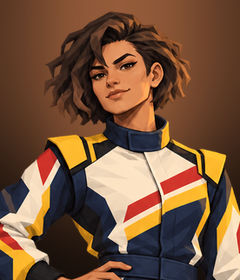
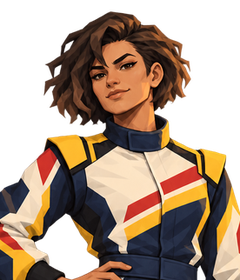
Segundo piloto: retratos sem fundo e o corpo inteiro na escolha
Pedido do usuário: os pilotos sem background e o asset melhor aproveitado.
Retratos regenerados sem fundo. Aba Equipe: busto recortado justo na
silhueta do corpo, traço em selo e a frase. Escolha: um candidato por vez
de corpo inteiro sob um foco de luz com sombra no chão, setas da garagem
para passar (com entrada deslizando), nome, traço, frase e Contratar; o
atual aparece como NA EQUIPE.

Claude-Session: https://claude.ai/code/session_015iFm7CUzfCZGHyWM9yY8m7

diff --git a/tools/preparar_piloto.py b/tools/preparar_piloto.py
@@ -2,8 +2,8 @@
 """Prepara a arte de um piloto a partir do PNG RGBA de corpo inteiro entregue,
 no padrão dos rivais (arte/pilotos/):
   corpo/<id>.webp   corpo inteiro 600 × 900 (2:3), escala uniforme, fundo transparente
-  <id>.png          retrato 240 × 280: cabeça e ombros recortados do corpo, sobre o
-                    fundo em degradê quente dos outros retratos
+  <id>.png          retrato 240 × 280: cabeça e ombros recortados do corpo, fundo
+                    transparente (a tela põe o piloto sobre o que estiver atrás)
 Escala sempre uniforme: o corpo de outra proporção é escalado pela altura e
 recortado dos lados; o retrato é um recorte do corpo, nunca esticado.
 
@@ -13,7 +13,7 @@ Requer Pillow.
 import pathlib
 import sys
 
-from PIL import Image, ImageDraw, ImageFilter
+from PIL import Image
 
 RAIZ = pathlib.Path(__file__).resolve().parent.parent
 SAIDA = RAIZ / "arte/pilotos"
@@ -21,9 +21,6 @@ CORPO = (600, 900)
 RETRATO = (240, 280)
 ALFA_ZERO = 16  # abaixo disso a franja some
 ALFA_CHEIO = 245  # acima disso o pixel é opaco
-# Degradê dos retratos (amostrado dos rivais): luz quente no alto, cantos escuros.
-LUZ = (150, 92, 58)
-SOMBRA = (20, 13, 9)
 
 
 def limpar(im: Image.Image) -> Image.Image:
@@ -50,16 +47,6 @@ def corpo(im: Image.Image) -> Image.Image:
     return quadro
 
 
-def fundo() -> Image.Image:
-    f = Image.new("RGB", RETRATO, SOMBRA)
-    luz = Image.new("L", RETRATO, 0)
-    d = ImageDraw.Draw(luz)
-    w, h = RETRATO
-    d.ellipse((w * 0.05, -h * 0.35, w * 0.95, h * 0.75), fill=255)
-    luz = luz.filter(ImageFilter.GaussianBlur(w * 0.18))
-    return Image.composite(Image.new("RGB", RETRATO, LUZ), f, luz)
-
-
 def retrato(c: Image.Image) -> Image.Image:
     """Cabeça e ombros: do topo da figura, largura de 46% do corpo, 240:280."""
     caixa = c.getchannel("A").getbbox()
@@ -71,10 +58,7 @@ def retrato(c: Image.Image) -> Image.Image:
     xs = [x for x in range(c.width) if linha.getpixel((x, 0)) > 128]
     cx = (min(xs) + max(xs)) // 2 if xs else c.width // 2
     x0 = min(max(cx - largura // 2, 0), c.width - largura)
-    rosto = c.crop((x0, topo, x0 + largura, topo + altura)).resize(RETRATO, Image.LANCZOS)
-    r = fundo().convert("RGBA")
-    r.alpha_composite(rosto)
-    return r.convert("RGB")
+    return c.crop((x0, topo, x0 + largura, topo + altura)).resize(RETRATO, Image.LANCZOS)
 
 
 def main(args: list[str]) -> int:

diff --git a/docs/pilotos_candidatos.md b/docs/pilotos_candidatos.md
@@ -34,4 +34,8 @@ por traço.
 Entregue em 2026-10-11 (8 PNG de corpo inteiro, 1024 × 1536, com o macacão da equipe).
 Instalada com `python3 tools/preparar_piloto.py <png> <id>...`: corpo 600 × 900 em
 `arte/pilotos/corpo/<id>.webp` e retrato 240 × 280 recortado do rosto em
-`arte/pilotos/<id>.png`, escala uniforme, no fundo em degradê dos outros retratos.
+`arte/pilotos/<id>.png`, escala uniforme, sem fundo.
+
+Na tela: a aba Equipe mostra o busto (o corpo recortado justo na silhueta, da cabeça à
+coxa) com nome, traço em selo e a frase; "Trocar piloto" abre um candidato por vez de
+corpo inteiro, sob um foco de luz com sombra no chão, passando com as setas da garagem.
